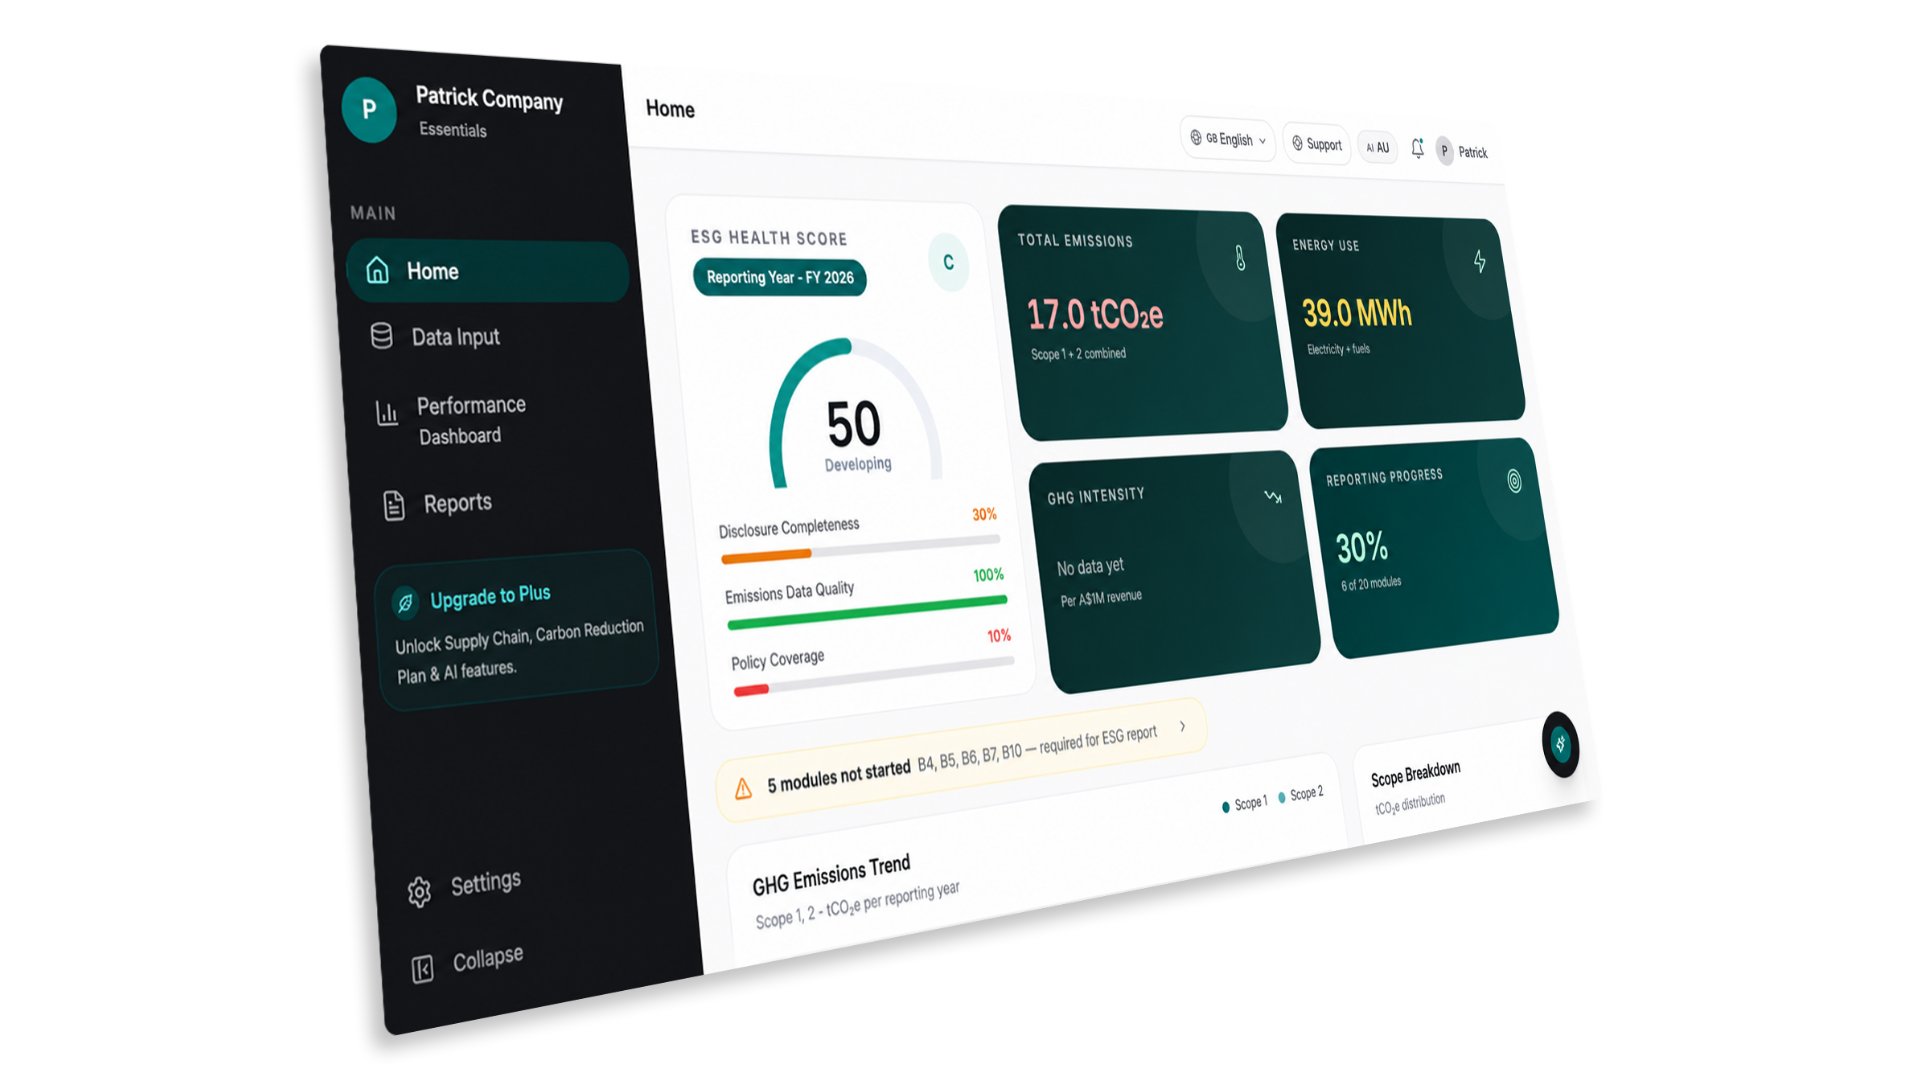
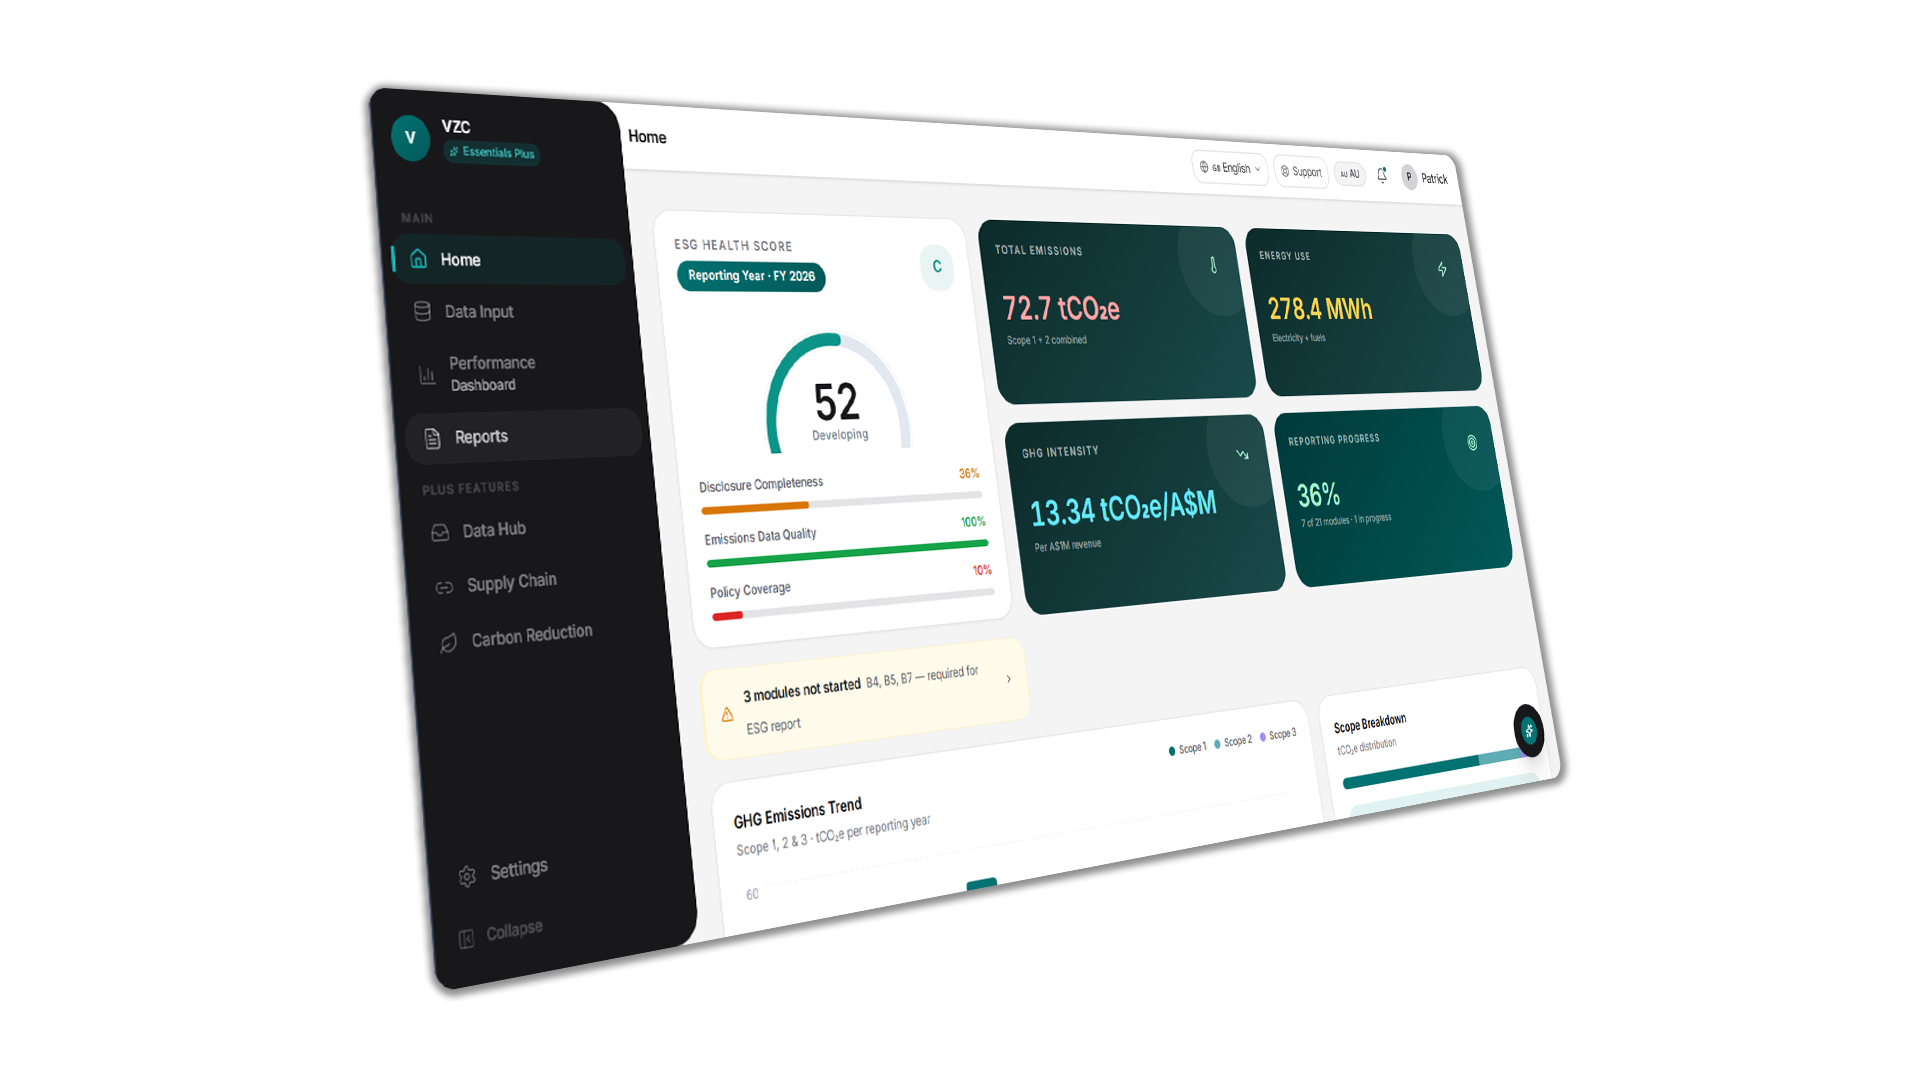
Update in-house experts stat 25+ to 36+

Changed region(s): [[0.1562, 0.0306, 0.8438, 0.9778], [0.7188, 0.6417, 0.75, 0.6722]]

diff --git a/components/sections/portfolio-one/TwoUpCards.tsx b/components/sections/portfolio-one/TwoUpCards.tsx
@@ -4,35 +4,34 @@ import { Reveal } from "@/components/ui/Reveal";
 import { twoUp } from "./portfolio-one.data";
 
 /**
- * Two paired feature cards on a light band. Each photo already carries the teal
- * treatment baked in, so the lime title + white body sit over the darker lower
- * area with no extra overlay. Stacks on mobile.
+ * Two paired feature cards on a light band. Clean, modern layout: a full-bleed
+ * photo on top and a white card body below with a teal title and muted copy —
+ * soft shadow, subtle border, gentle image zoom on hover. Stacks on mobile.
  */
 export function TwoUpCards() {
   return (
     <SectionWrapper background="white">
-      <div className="grid gap-8 md:grid-cols-2">
+      <div className="grid items-stretch gap-7 md:grid-cols-2">
         {twoUp.map((card, i) => (
-          <Reveal key={card.title} delay={i * 120}>
-            <article className="relative flex min-h-[24rem] flex-col justify-end overflow-hidden rounded-3xl p-8 shadow-xl sm:p-10">
-              <Image
-                src={card.image.src}
-                alt={card.image.alt}
-                width={1200}
-                height={800}
-                sizes="(min-width: 768px) 40rem, 100vw"
-                className="absolute inset-0 h-full w-full scale-110 object-cover"
-              />
-              {/* Scrim — darkens the lower area so the text stays legible */}
-              <span
-                aria-hidden
-                className="absolute inset-0 bg-gradient-to-t from-black/85 via-black/45 to-black/10"
-              />
-              <div className="relative z-10">
-                <h3 className="text-balance text-2xl font-bold leading-tight text-lime sm:text-3xl">
+          <Reveal key={card.title} delay={i * 120} className="h-full">
+            <article className="group flex h-full flex-col overflow-hidden rounded-2xl border border-ink/10 bg-white shadow-[0_10px_30px_-12px_rgba(4,88,88,0.25)] transition-shadow duration-300 hover:shadow-[0_18px_44px_-14px_rgba(4,88,88,0.35)]">
+              {/* Photo */}
+              <div className="relative aspect-[16/10] w-full overflow-hidden">
+                <Image
+                  src={card.image.src}
+                  alt={card.image.alt}
+                  width={1200}
+                  height={800}
+                  sizes="(min-width: 768px) 40rem, 100vw"
+                  className="h-full w-full object-cover transition-transform duration-500 group-hover:scale-105"
+                />
+              </div>
+              {/* Copy */}
+              <div className="flex flex-1 flex-col p-6 sm:p-7">
+                <h3 className="text-balance text-xl font-bold leading-snug text-teal sm:text-2xl">
                   {card.title}
                 </h3>
-                <p className="mt-4 text-base leading-relaxed text-white">
+                <p className="mt-3 text-sm leading-relaxed text-ink/70 sm:text-[0.95rem]">
                   {card.description}
                 </p>
               </div>

diff --git a/components/sections/insights/FeaturedArticles.tsx b/components/sections/insights/FeaturedArticles.tsx
@@ -50,7 +50,7 @@ export function FeaturedArticles() {
                 sizes="(min-width: 1024px) 44vw, 100vw"
                 className="object-cover transition-transform duration-500 group-hover:scale-105"
               />
-              <div className="absolute inset-0 bg-gradient-to-t from-black/80 via-black/30 to-transparent" />
+              <div className="absolute inset-0 bg-gradient-to-t from-black/85 via-black/55 to-black/5" />
               <div className="absolute inset-x-0 bottom-0 flex flex-col gap-3 p-7">
                 <span className="inline-flex w-fit items-center rounded-pill bg-black/55 px-4 py-1.5 text-xs font-semibold text-white backdrop-blur-sm">
                   {featured.tag ?? "Featured"}
@@ -68,12 +68,18 @@ export function FeaturedArticles() {
 
           {/* Supporting list */}
           <div className="flex flex-col">
-            <div className="flex flex-col divide-y divide-white/10">
+            <div className="flex flex-col">
               {supporting.map((item, i) => (
-                <Reveal key={item.id} delay={Math.min(i, 3) * 80}>
+                <Reveal
+                  key={item.id}
+                  delay={Math.min(i, 3) * 80}
+                  className={
+                    i > 0 ? "mt-6 border-t border-white/15 pt-6 sm:mt-7 sm:pt-7" : undefined
+                  }
+                >
                   <Link
                     href={item.link}
-                    className="group flex items-start gap-4 py-8 first:pt-0 focus-visible:outline-none sm:gap-5 sm:py-10"
+                    className="group flex items-start gap-4 focus-visible:outline-none sm:gap-5"
                   >
                     <div className="relative h-[4.5rem] w-28 shrink-0 overflow-hidden rounded-lg sm:h-24 sm:w-36">
                       <Image
@@ -84,11 +90,11 @@ export function FeaturedArticles() {
                         className="object-cover transition-transform duration-300 group-hover:scale-105"
                       />
                     </div>
-                    <div className="flex flex-col gap-2">
-                      <h3 className="text-balance text-base font-bold leading-snug transition-colors group-hover:text-lime sm:text-lg">
+                    <div className="flex flex-col gap-2.5">
+                      <h3 className="text-balance text-base font-bold leading-relaxed transition-colors group-hover:text-lime sm:text-lg">
                         {item.title}
                       </h3>
-                      <p className="line-clamp-2 text-sm leading-relaxed text-white/70">
+                      <p className="line-clamp-2 text-sm leading-loose text-white/70">
                         {item.excerpt}
                       </p>
                       <ArticleMeta item={item} tone="dark" />

diff --git a/components/sections/vz-consult/BackedByTech.tsx b/components/sections/vz-consult/BackedByTech.tsx
@@ -1,7 +1,7 @@
+import Image from "next/image";
 import Link from "next/link";
 import { Container } from "@/components/ui/Container";
 import { Reveal } from "@/components/ui/Reveal";
-import { VideoEmbed } from "@/components/ui/VideoEmbed";
 import { tech } from "./vz-consult.data";
 
 /**
@@ -13,7 +13,7 @@ export function BackedByTech() {
   return (
     <section className="bg-navy py-16 text-white md:py-24">
       <Container>
-        <div className="grid items-center gap-10 lg:grid-cols-2 lg:gap-16">
+        <div className="grid items-stretch gap-10 lg:grid-cols-2 lg:gap-16">
           <Reveal>
             <h2 className="text-balance text-3xl font-bold tracking-tight text-lime sm:text-4xl md:text-display-sm">
               {tech.headline}
@@ -39,12 +39,15 @@ export function BackedByTech() {
           </Reveal>
 
           {/* Media panel */}
-          <Reveal delay={120}>
-            <div className="overflow-hidden rounded-2xl shadow-xl">
-              <VideoEmbed
-                poster={tech.image.src}
-                posterAlt={tech.image.alt}
-                sizes="(min-width: 1024px) 36rem, 100vw"
+          <Reveal delay={120} className="lg:h-full">
+            <div className="overflow-hidden rounded-2xl shadow-xl lg:h-full">
+              <Image
+                src={tech.image.src}
+                alt={tech.image.alt}
+                width={1200}
+                height={900}
+                sizes="(min-width: 1024px) 40rem, 100vw"
+                className="aspect-video w-full object-cover lg:aspect-auto lg:h-full"
               />
             </div>
           </Reveal>

diff --git a/components/sections/portfolio-one/OverviewBlock.tsx b/components/sections/portfolio-one/OverviewBlock.tsx
@@ -1,7 +1,6 @@
 import Image from "next/image";
 import { Container } from "@/components/ui/Container";
 import { Reveal } from "@/components/ui/Reveal";
-import { VideoEmbed } from "@/components/ui/VideoEmbed";
 import { overview } from "./portfolio-one.data";
 
 /**
@@ -28,14 +27,17 @@ export function OverviewBlock() {
         />
       </div>
       <Container className="relative z-10">
-        <div className="grid items-center gap-10 lg:grid-cols-[0.85fr_1.15fr] lg:gap-12">
+        <div className="grid items-stretch gap-10 lg:grid-cols-2 lg:gap-12">
         {/* Media panel */}
-        <Reveal>
-          <div className="overflow-hidden rounded-3xl border-2 border-white shadow-xl lg:max-w-[30rem]">
-            <VideoEmbed
-              poster={overview.image.src}
-              posterAlt={overview.image.alt}
-              sizes="(min-width: 1024px) 36rem, 100vw"
+        <Reveal className="lg:h-full">
+          <div className="overflow-hidden rounded-3xl border-2 border-white shadow-xl lg:h-full">
+            <Image
+              src={overview.image.src}
+              alt={overview.image.alt}
+              width={1200}
+              height={900}
+              sizes="(min-width: 1024px) 40rem, 100vw"
+              className="aspect-video w-full object-cover lg:aspect-auto lg:h-full"
             />
           </div>
         </Reveal>

diff --git a/components/sections/vz-consult/vz-consult.data.ts b/components/sections/vz-consult/vz-consult.data.ts
@@ -113,7 +113,7 @@ export const tech = {
   closing:
     "Creating a connected approach between strategy, technology, and operational performance.",
   image: {
-    src: "/assets/vz-consult/2.png",
+    src: "/assets/vz-consult/1.png",
     alt: "Commercial buildings at dusk",
   } as ImageRef,
 };
@@ -153,7 +153,7 @@ export const presence = {
     "Our experience across diverse property markets and regulatory environments allows us to support clients with strategies that are commercially grounded, scalable, and aligned with evolving industry expectations.",
   ],
   stats: [
-    { value: "25+", label: "in-house industry experts" },
+    { value: "36+", label: "in-house industry experts" },
     { value: "5", label: "offices in countries" },
   ] as Stat[],
 };

diff --git a/components/sections/spotlights/spotlights.data.ts b/components/sections/spotlights/spotlights.data.ts
@@ -23,7 +23,7 @@ export const ESSENTIALS: SpotlightContent = {
     variant: "primary",
   },
   image: {
-    src: "/assets/home/spotlight-essentials.png",
+    src: "/assets/essentials/dashboard.png",
     alt: "Essentials ESG reporting dashboard",
     width: 1920,
     height: 1080,
@@ -52,7 +52,7 @@ export const ESSENTIALS_PLUS: SpotlightContent = {
     variant: "primary",
   },
   image: {
-    src: "/assets/home/spotlight-essentials.png",
+    src: "/assets/essentials/dashboard.png",
     alt: "Essentials+ operational intelligence dashboard",
     width: 1920,
     height: 1080,

diff --git a/components/sections/about/GlobalPresence.tsx b/components/sections/about/GlobalPresence.tsx
@@ -35,7 +35,7 @@ export function GlobalPresence() {
           <Reveal delay={120}>
             <div className="grid grid-cols-1 gap-5 sm:grid-cols-2">
               <div className="rounded-2xl bg-[#a7c4c2] p-7">
-                <span className="text-5xl font-bold leading-none text-ink">25+</span>
+                <span className="text-5xl font-bold leading-none text-ink">36+</span>
                 <p className="mt-3 text-base font-medium text-ink/80">
                   in-house industry experts
                 </p>

diff --git a/components/sections/awards/awards.data.ts b/components/sections/awards/awards.data.ts
@@ -89,7 +89,7 @@ export const presence = {
   intro:
     "From operational intelligence platforms to strategic advisory support, Vision Zero Connect works with organisations across commercial property, infrastructure, and real asset sectors to improve visibility, performance, and long-term operational outcomes.",
   stats: [
-    { value: "25+", label: "in-house industry experts" },
+    { value: "36+", label: "in-house industry experts" },
     { value: "5", label: "countries with offices" },
   ],
   map: {

diff --git a/components/sections/partner-page/partner-page.data.ts b/components/sections/partner-page/partner-page.data.ts
@@ -36,7 +36,7 @@ export const reach = {
   intro:
     "Together with our partners, Vision Zero Connect continues to support organisations across property, infrastructure, and operational environments through connected technology, advisory capability, and intelligent reporting solutions.",
   stats: [
-    { value: "25+", label: "in-house industry experts" },
+    { value: "36+", label: "in-house industry experts" },
     { value: "5", label: "countries with offices" },
   ],
   map: {

diff --git a/components/sections/who-we-serve/Outcomes/Outcomes.tsx b/components/sections/who-we-serve/Outcomes/Outcomes.tsx
@@ -9,7 +9,7 @@ import { StatCard, type Stat } from "./StatCard";
  * shown as StatCards, plus a partner logo strip.
  */
 const STATS: Stat[] = [
-  { value: "25+", label: "In-house industry experts" },
+  { value: "36+", label: "In-house industry experts" },
   { value: "4", label: "Countries with offices" },
   { value: "35+", label: "Organisations served" },
   { value: "8", label: "Sectors covered" },
